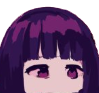
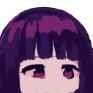
updated readme, put jquery.js in a seperate libs folder, updated anna.png to be square, and some general changes like renaming style.css and changing file paths

diff --git a/newtab.html b/newtab.html
@@ -2,8 +2,8 @@
 <html>  
     <head>    
         <meta charset="utf-8">
-        <link rel="stylesheet" href="style.css">
-        <script src="jquery.js"></script>
+        <link rel="stylesheet" href="newtab.css">
+        <script src="libs/jquery.js"></script>
         <script src="bundle.js"></script>
     </head>  
     <body>

diff --git a/popup/choose_bg.html b/popup/choose_bg.html
@@ -4,7 +4,7 @@
   <head>
     <meta charset="utf-8">
     <link rel="stylesheet" href="choose_bg.css"/>
-    <script src="../jquery.js"></script>
+    <script src="../libs/jquery.js"></script>
     <script src="choose_bg.js"></script>
   </head>
 

diff --git a/README.md b/README.md
@@ -1,5 +1,6 @@
-# Homepage Changer
-Browser extension that changes your homepage to weekly top-ranked posts from a subreddit of your choosing.
-Type whatever subreddit you wish (without the 'r/') and hit next. Back to go back, cover to enlarge the image as applicable to cover the entire window. Nothing else to say really.
+# Newtab Changer
+Browser extension that changes your homepage to top-rated image posts from any subreddit of your choosing
 
-Note that your virtual "position" of sort, will carry over between subreddits, e.g if you're on the 7th top weekly on r/ImaginarySliceofLife and you switch to r/art, you'll be on the 7th top weekly of r/art instead of starting from 1st.
+Click on the options to bring up the menue. Type in a subreddit (without the 'r/') and hit enter to see the results. Click on the preview options to make it your default newtab. Click on the toggle in the popup if you don't want the image container and would rather just have an enlarged image covering the whole screen.
+
+Not much else to say, really.
